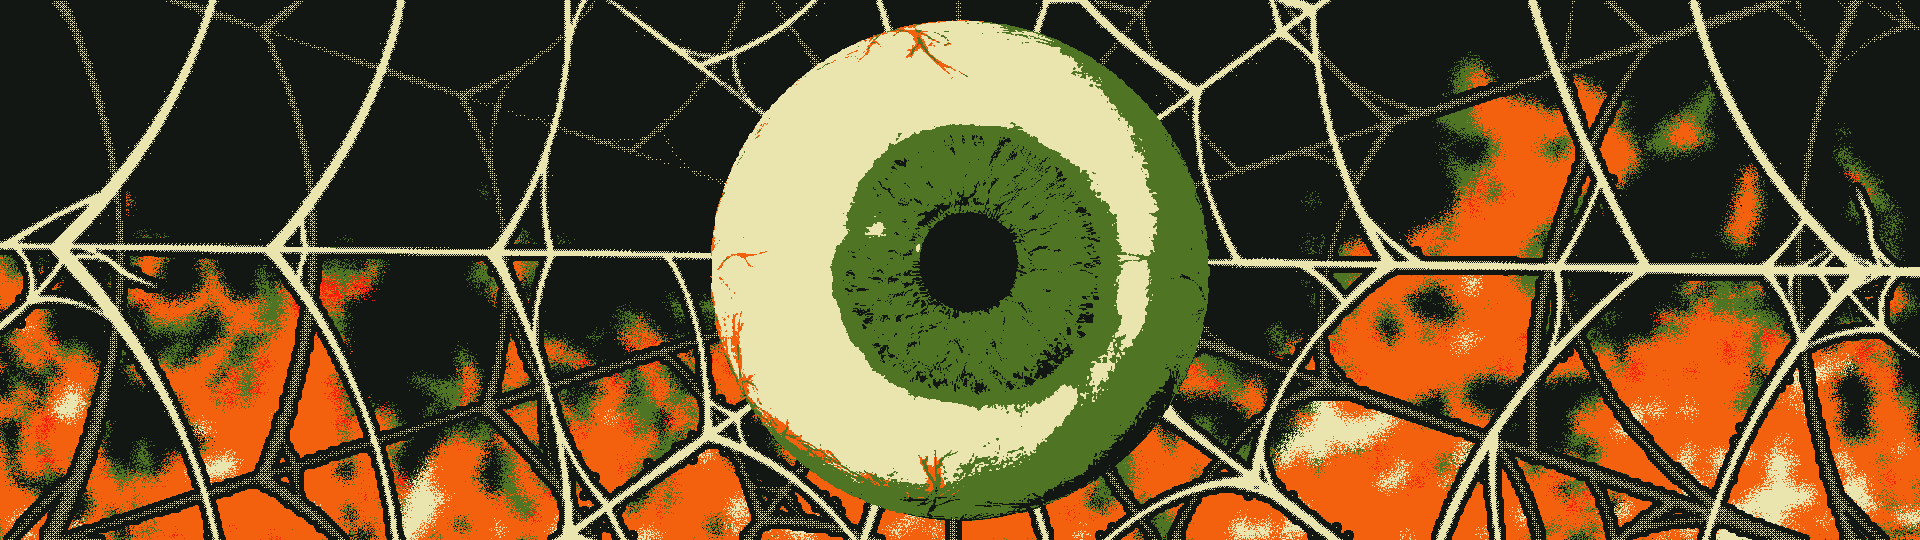
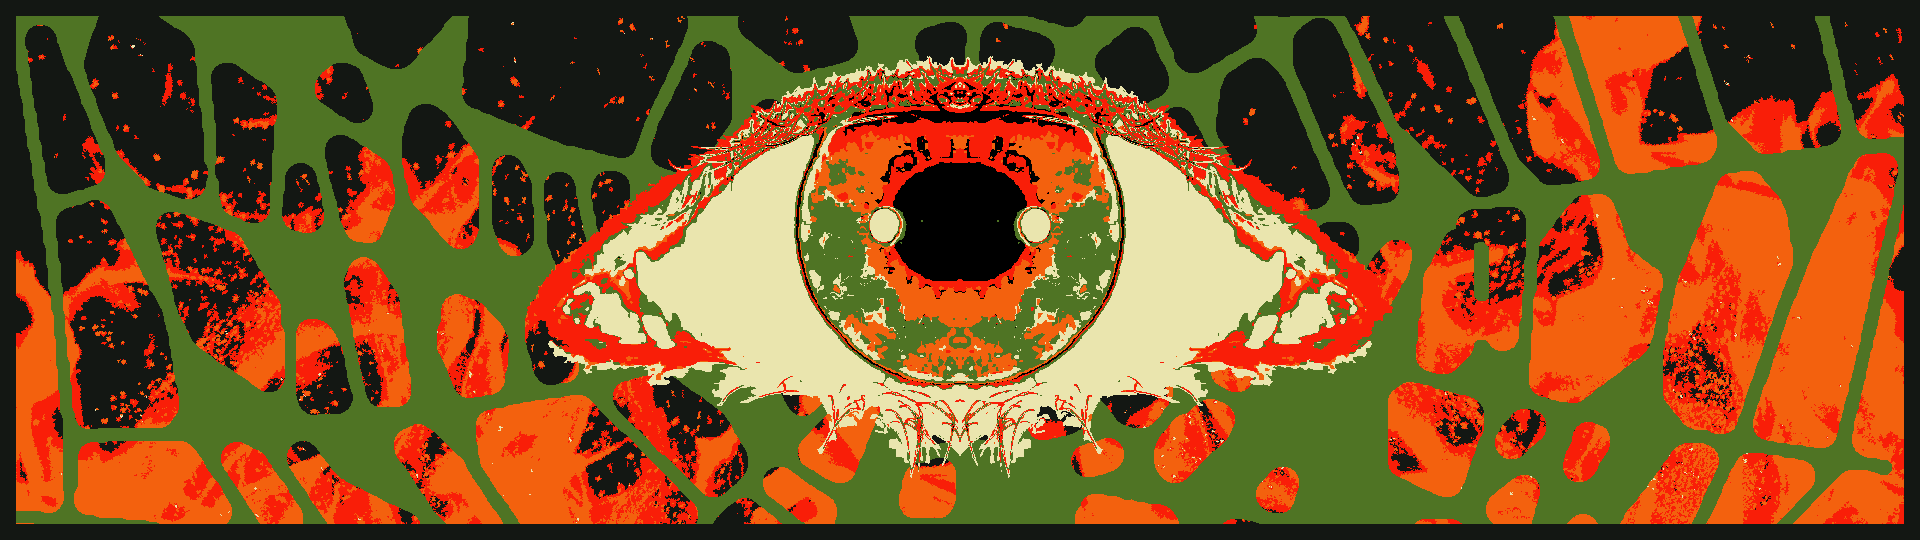
atualizada pagina softwares

diff --git a/software.html b/software.html
@@ -96,35 +96,29 @@
                         <h4>EndeavourOS</h4>
                         <hr style="border-color: #f3610e" />
                         <p>
-                            Lorem ipsum dolor sit amet, consectetur adipiscing
-                            elit, sed do eiusmod tempor incididunt ut labore et
-                            dolore magna aliqua. Ut enim ad minim veniam, quis
-                            nostrud exercitation ullamco laboris nisi ut aliquip
-                            ex ea commodo consequat. Duis aute irure dolor in
-                            reprehenderit in voluptate velit esse cillum dolore
-                            eu fugiat nulla pariatur. Excepteur sint occaecat
-                            cupidatat non proident, sunt in culpa qui officia
-                            deserunt mollit anim id est laborum.
+                            EndeavourOS é o nome da distribuição de Linux que eu
+                            utilizo no meu dia a dia. É uma distribuição base
+                            Arch, extremamente leve e customisável, com o
+                            ambiente de desktop padrão KDE Plasma. Eu uso ele
+                            desde outubro de 2025, foi minha primeira
+                            distribuição Linux, mas eu não me lembro como eu
+                            conheci, só me lembro que eu queria instalar uma
+                            distribuição base Arch, e brevemente considerei
+                            Manjaro ou Omarchy, mas acabei decidindo no
+                            EndeavourOS. Eu a recomendaria para qualquer um que
+                            quer todo o controle sobre o seu sistema, como no
+                            arch, mas sem ter o trabalho de instalar manualmente
+                            o sistema do zero.
                         </p>
                     </div>
                     <div class="tiled-box">
-                        <h4>Terminal Kitty</h4>
+                        <h4>Libre Office</h4>
                         <hr style="border-color: #f3610e" />
                         <p>
-                            Fusce malesuada maximus turpis, at tincidunt lorem
-                            vulputate finibus. Morbi vel suscipit odio. Nullam
-                            non quam nec magna volutpat egestas sit amet feugiat
-                            felis. Sed lobortis pharetra libero. Suspendisse
-                            enim sem, convallis a varius eget, placerat in
-                            nulla. Cras vitae velit efficitur, porttitor dolor
-                            interdum, molestie sapien. In dictum ac risus ac
-                            aliquam. Nullam sed nisi fringilla, finibus orci
-                            semper, lacinia magna. Curabitur eget quam at dui
-                            dapibus consequat. Pellentesque euismod erat in leo
-                            aliquet mollis. Nam lectus metus, molestie non magna
-                            at, varius hendrerit purus. Vestibulum tempor tortor
-                            eget urna porttitor, ac iaculis metus molestie.
-                            Donec tristique lacus sed vulputate scelerisque.
+                            Nem preciso falar muito sobre o Libre Office. São
+                            ferramentas de edição e visualização de documentos
+                            Open Source, similar ao Microsoft Office, mas sem
+                            bloat e sem slop.
                         </p>
                     </div>
                 </div>
@@ -133,33 +127,30 @@
                         <h4>IDE Zed</h4>
                         <hr style="border-color: #f3610e" />
                         <p>
-                            Fusce malesuada maximus turpis, at tincidunt lorem
-                            vulputate finibus. Morbi vel suscipit odio. Nullam
-                            non quam nec magna volutpat egestas sit amet feugiat
-                            felis. Sed lobortis pharetra libero. Suspendisse
-                            enim sem, convallis a varius eget, placerat in
-                            nulla. Cras vitae velit efficitur, porttitor dolor
-                            interdum, molestie sapien. In dictum ac risus ac
-                            aliquam. Nullam sed nisi fringilla, finibus orci
-                            semper, lacinia magna. Curabitur eget quam at dui
-                            dapibus consequat. Pellentesque euismod erat in leo
-                            aliquet mollis. Nam lectus metus, molestie non magna
-                            at, varius hendrerit purus. Vestibulum tempor tortor
-                            eget urna porttitor, ac iaculis metus molestie.
-                            Donec tristique lacus sed vulputate scelerisque.
+                            A IDE que eu uso para a maioria das tarefas de
+                            programação é o Zed, uma alternativa Open Source
+                            para o VS Code, mais estável e leve. Antes de migrar
+                            para o Linux, eu usava o VS Code, porque é o que me
+                            foi ensinado na escola. Quando passei para Linux,
+                            percebi que não era a melhor opção. após algum tempo
+                            lidando com bugs no VS Codium, resolvi usar o
+                            'micro', um editor de texto simples no terminal.
+                            Quando voltei a estudar desenvolvimento Web, percebi
+                            que o micro não tinha as ferramentas que eu usava no
+                            VS Code. Então eu lembrei do zed, e passei a usar
+                            ele para todos os outros projetos de programação.
                         </p>
                     </div>
                     <div class="tiled-box">
                         <h4>Firefox</h4>
                         <hr style="border-color: #f3610e" />
                         <p>
-                            Fusce malesuada maximus turpis, at tincidunt lorem
-                            vulputate finibus. Morbi vel suscipit odio. Nullam
-                            non quam nec magna volutpat egestas sit amet feugiat
-                            felis. Sed lobortis pharetra libero. Suspendisse
-                            enim sem, convallis a varius eget, placerat in
-                            nulla. Cras vitae velit efficitur, porttitor dolor
-                            interdum, molestie sapien.
+                            Eu uso o Firefox como meu único navegador. Passei a
+                            usar ele após migrar para Linux. Apesar de ter uma
+                            empresa por trás, é Open Source, mais leve e mais
+                            seguro que Chrome. Já tentei outras alternativas
+                            como Librewolf e Icecat, a versão GNU do Firefox,
+                            mas eu não vejo motivos para migrar.
                         </p>
                     </div>
                 </div>
